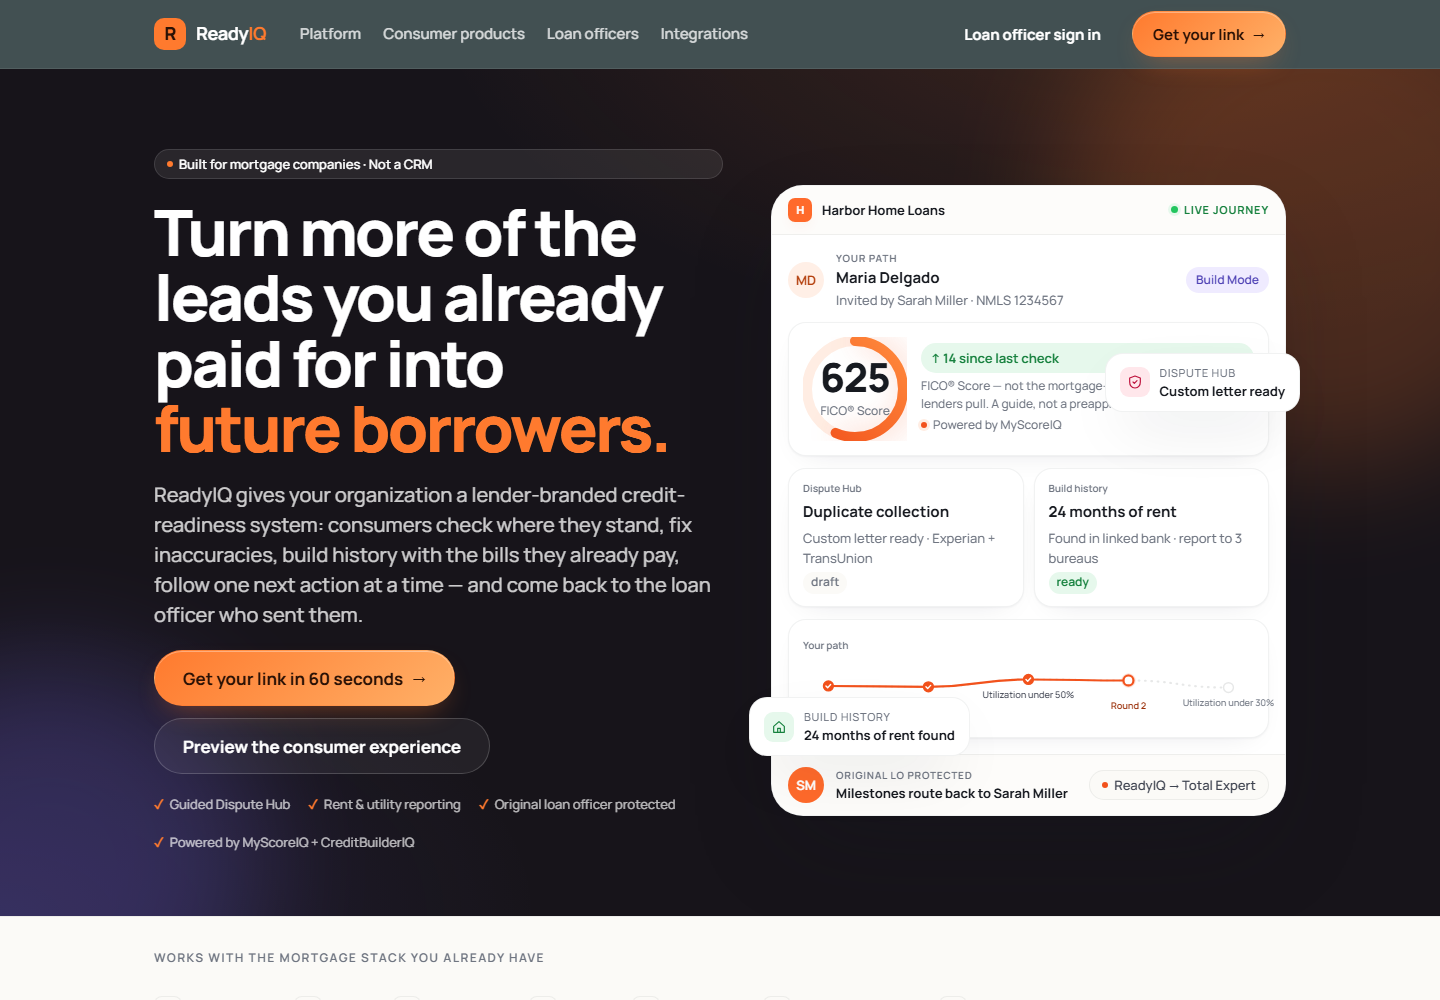
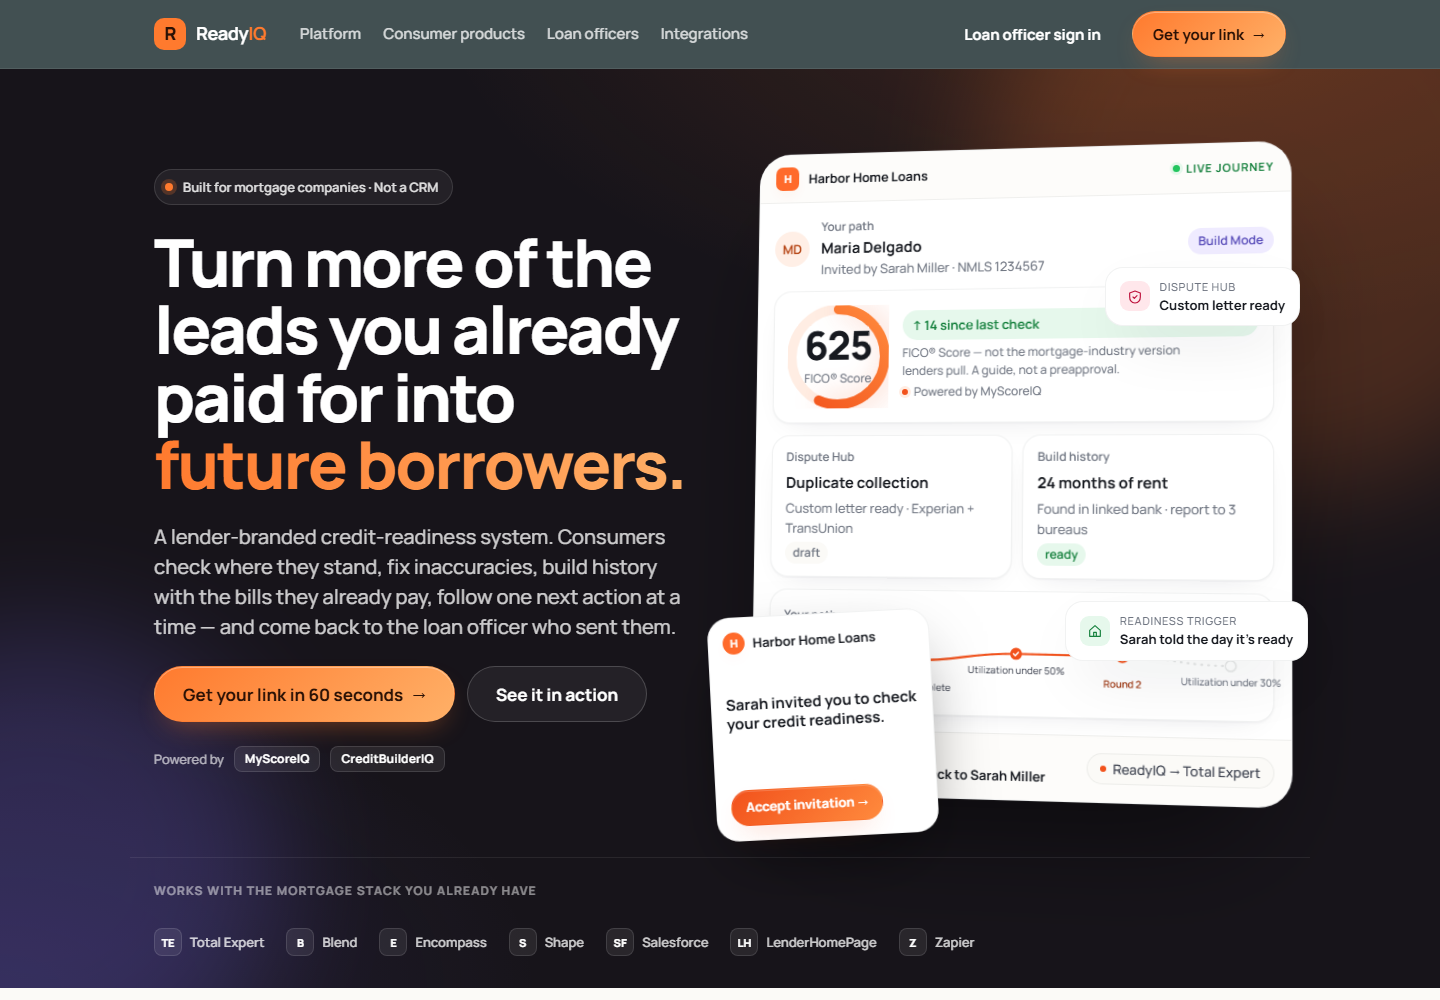
feat(hero): rebuilt marketing hero — side-by-side CTAs, tilted product window with depth, invitation card, floating labels, powered-by chips, integrations row inside the hero

Changed region(s): [[0.0938, 0.062, 0.9062, 0.868], [0.0, 0.837, 1.0, 0.992], [0.3438, 0.682, 0.4375, 0.713]]

diff --git a/site/index.html b/site/index.html
@@ -21,28 +21,34 @@
   .rmark { display: inline-flex; align-items: center; gap: 10px; font-weight: 700; letter-spacing: -.02em; font-size: 18px; color: inherit; text-decoration: none !important; }
   .rmark i { width: 32px; height: 32px; border-radius: 10px; background: var(--lime); color: var(--lime-ink); display: grid; place-items: center; font-style: normal; font-weight: 800; }
   .rmark span span { color: var(--lime); }
-  .hero { position: relative; overflow: hidden; padding: var(--sp-20) 0 var(--sp-16); }
-  .hero .orb-lime { width: 520px; height: 520px; right: -140px; top: -120px; opacity: .22; }
-  .hero .orb-purple { width: 420px; height: 420px; left: -160px; bottom: -160px; opacity: .22; }
-  .hero-grid { position: relative; display: grid; grid-template-columns: minmax(0, 1.05fr) minmax(0, .95fr); gap: var(--sp-12); align-items: center; }
-  .hero-copy { display: grid; gap: var(--sp-5); max-width: 600px; }
-  .hero-copy .display { color: #fff; }
-  .hero-copy .display em { color: var(--lime); }
-  .proof { display: flex; gap: 18px; flex-wrap: wrap; font-size: var(--fs-13); color: rgba(255,255,255,.7); }
-  .proof span::before { content: "✓"; color: var(--lime); font-weight: 700; margin-right: 6px; }
-  .stage { position: relative; }
-  .stage .platform { position: relative; z-index: 1; color: var(--ink); }
-  .float-a { right: -14px; top: 168px; } .float-b { left: -22px; bottom: 60px; animation-delay: 1.4s; }
+  .hero { position: relative; overflow: hidden; padding: var(--sp-20) 0 0; }
+  .hero .orb-lime { width: 620px; height: 620px; right: -160px; top: -200px; opacity: .22; }
+  .hero .orb-purple { width: 480px; height: 480px; left: -200px; bottom: -120px; opacity: .22; }
+  .hero-grid { position: relative; display: grid; grid-template-columns: minmax(0, 1fr) minmax(0, 1fr); gap: var(--sp-16); align-items: center; padding-bottom: var(--sp-16); }
+  .hero-copy { display: grid; gap: var(--sp-6); max-width: 620px; }
+  .hero-copy .display { color: #fff; font-size: 66px; }
+  .hero-copy .display em { background: var(--text-grad); -webkit-background-clip: text; background-clip: text; color: transparent; }
+  .hero-copy .lead { max-width: 56ch; }
+  .hero-pill { display: inline-flex; align-items: center; gap: 10px; height: 36px; padding: 0 14px 0 10px; border-radius: var(--r-pill); background: rgba(255,255,255,.06); border: 1px solid rgba(255,255,255,.12); color: rgba(255,255,255,.85); font-size: var(--fs-13); font-weight: 600; width: max-content; max-width: 100%; }
+  .hero-pill i { width: 8px; height: 8px; border-radius: 50%; background: var(--lime); box-shadow: 0 0 0 4px rgba(255,122,46,.22); }
+  .hero-cta { display: flex; gap: 12px; flex-wrap: wrap; align-items: center; }
+  .hero-powered { display: flex; align-items: center; gap: 10px; flex-wrap: wrap; font-size: var(--fs-13); color: rgba(255,255,255,.7); }
+  .hero-powered .pb { display: inline-flex; align-items: center; height: 26px; padding: 0 10px; border-radius: 8px; background: rgba(255,255,255,.08); border: 1px solid rgba(255,255,255,.12); color: #fff; font-weight: 700; font-size: 12px; letter-spacing: .01em; }
+  .hero-powered .sep { width: 1px; height: 16px; background: rgba(255,255,255,.18); margin: 0 4px; }
+  .stage { position: relative; perspective: 1600px; }
+  .stage .platform { position: relative; z-index: 1; color: var(--ink); transform: rotateY(-8deg) rotateX(3deg); transform-origin: 20% 50%; transition: transform var(--dur-4) var(--ease); box-shadow: 0 60px 120px -40px rgba(0,0,0,.6), 0 0 0 1px rgba(255,255,255,.06); }
+  .stage:hover .platform { transform: none; }
+  .phone-mini { position: absolute; z-index: 4; left: -40px; bottom: -44px; width: 222px; display: grid; gap: 8px; padding: 14px; border-radius: 22px; background: #fff; color: var(--ink); border: 1px solid var(--line-2); box-shadow: 0 30px 70px -20px rgba(0,0,0,.55); transform: rotate(-3deg); }
+  .float-a { right: -14px; top: 118px; } .float-b { right: -22px; bottom: 132px; animation-delay: 1.4s; }
   .platform-context { display: grid; grid-template-columns: auto 1fr auto; gap: 12px; align-items: center; }
-  .platform-context small { display: block; font-size: 10px; letter-spacing: .08em; text-transform: uppercase; color: var(--ink-3); font-weight: 640; }
+  .platform-context small { display: block; font-size: 12px; color: var(--ink-3); font-weight: 600; }
   .platform-return { display: grid; grid-template-columns: auto 1fr auto; gap: 12px; align-items: center; padding: 12px 16px; background: var(--paper-2); border-top: 1px solid var(--line-2); font-size: var(--fs-13); }
-  .platform-return small { display: block; font-size: 10px; letter-spacing: .08em; text-transform: uppercase; color: var(--ink-3); font-weight: 640; }
-  .trust { padding: var(--sp-8) 0; border-top: 1px solid var(--line-2); border-bottom: 1px solid var(--line-2); }
-  .trust-inner { display: flex; align-items: center; gap: 28px; flex-wrap: wrap; justify-content: space-between; }
-  .trust-inner > span { font-size: var(--fs-12); letter-spacing: .12em; text-transform: uppercase; color: var(--ink-3); font-weight: 640; }
-  .logos { display: flex; gap: 26px; flex-wrap: wrap; align-items: center; }
-  .logos b { display: inline-flex; align-items: center; gap: 8px; color: var(--ink-2); font-weight: 640; letter-spacing: .02em; font-size: var(--fs-13); }
-  .logos b i { width: 28px; height: 28px; border-radius: 8px; background: var(--paper); border: 1px solid var(--line-2); display: grid; place-items: center; font-style: normal; font-size: 11px; font-weight: 800; color: var(--ink); }
+  .platform-return small { display: block; font-size: 12px; color: var(--ink-3); font-weight: 600; }
+  .hero-trust { position: relative; display: flex; align-items: center; gap: 28px; flex-wrap: wrap; justify-content: space-between; padding: var(--sp-6) var(--sp-6) var(--sp-8); border-top: 1px solid rgba(255,255,255,.08); }
+  .hero-trust > span { font-size: var(--fs-12); letter-spacing: .1em; text-transform: uppercase; color: rgba(255,255,255,.5); font-weight: 700; }
+  .logos { display: flex; gap: 22px; flex-wrap: wrap; align-items: center; }
+  .logos b { display: inline-flex; align-items: center; gap: 8px; color: rgba(255,255,255,.78); font-weight: 600; font-size: var(--fs-13); }
+  .logos b i { width: 28px; height: 28px; border-radius: 8px; background: rgba(255,255,255,.08); border: 1px solid rgba(255,255,255,.12); display: grid; place-items: center; font-style: normal; font-size: 11px; font-weight: 800; color: #fff; }
   .problem { display: grid; grid-template-columns: minmax(0, 1.1fr) minmax(0, .9fr); gap: var(--sp-12); align-items: start; }
   .stat-row { display: grid; grid-template-columns: repeat(3, 1fr); gap: 12px; }
   .stat-row .card { padding: 18px; }
@@ -85,7 +91,10 @@
   .mk-footer { padding: var(--sp-10) 0 var(--sp-16); font-size: var(--fs-13); color: var(--ink-3); display: grid; gap: 14px; }
   @media (max-width: 960px) {
     .mk-links { display: none; }
-    .hero { padding: var(--sp-12) 0 var(--sp-10); }
+    .hero { padding: var(--sp-12) 0 0; }
+    .hero-copy .display { font-size: var(--fs-44); }
+    .stage .platform { transform: none; }
+    .phone-mini { display: none; }
     .hero-grid, .problem, .suite-head, .suite-panel, .org, .cx { grid-template-columns: minmax(0, 1fr); gap: var(--sp-6); }
     .loop, .modules { grid-template-columns: 1fr 1fr; }
     .stat-row { grid-template-columns: 1fr; }
@@ -93,7 +102,7 @@
     .events > div { grid-template-columns: 1fr 1fr; }
     .events > div span:nth-child(1), .events > div span:nth-child(4) { display: none; }
   }
-  @media (max-width: 600px) { .loop, .modules { grid-template-columns: 1fr; } .phone { width: 100%; max-width: 320px; } .hero-copy .row .btn { width: 100%; } .hero-copy .row { display: grid; } }
+  @media (max-width: 600px) { .loop, .modules { grid-template-columns: 1fr; } .phone { width: 100%; max-width: 320px; } .hero-cta { display: grid; } .hero-cta .btn { width: 100%; } }
 </style>
 </head>
 <body>
@@ -107,11 +116,14 @@
   <i class="orb orb-lime"></i><i class="orb orb-purple"></i>
   <div class="container hero-grid">
     <div class="hero-copy">
-      <div class="chip"><span class="dot"></span>Built for mortgage companies · Not a CRM</div>
+      <div class="hero-pill"><i></i>Built for mortgage companies · Not a CRM</div>
       <h1 class="display">Turn more of the leads you already paid for into <em>future borrowers.</em></h1>
-      <p class="lead">ReadyIQ gives your organization a lender-branded credit-readiness system: consumers check where they stand, fix inaccuracies, build history with the bills they already pay, follow one next action at a time — and come back to the loan officer who sent them.</p>
-      <div class="row wrap"><a class="btn btn-accent btn-lg" href="lo/start/">Get your link in 60 seconds <span class="arrow">→</span></a><a class="btn btn-outline btn-lg" href="check/">Preview the consumer experience</a></div>
-      <div class="proof"><span>Guided Dispute Hub</span><span>Rent & utility reporting</span><span>Original loan officer protected</span><span>Powered by MyScoreIQ + CreditBuilderIQ</span></div>
+      <p class="lead">A lender-branded credit-readiness system. Consumers check where they stand, fix inaccuracies, build history with the bills they already pay, follow one next action at a time — and come back to the loan officer who sent them.</p>
+      <div class="hero-cta">
+        <a class="btn btn-accent btn-lg" href="lo/start/">Get your link in 60 seconds <span class="arrow">→</span></a>
+        <a class="btn btn-outline btn-lg" href="check/?c=harbor-smiller">See it in action</a>
+      </div>
+      <div class="hero-powered"><span class="muted">Powered by</span><span class="pb">MyScoreIQ</span><span class="pb">CreditBuilderIQ</span></div>
     </div>
     <div class="stage">
       <div class="platform" aria-hidden="true">
@@ -120,20 +132,28 @@
           <div class="platform-context"><span class="avatar" style="background:#FFEFE6;color:#B4400E">MD</span><div><small>Your path</small><b>Maria Delgado</b><div class="small muted">Invited by Sarah Miller · NMLS 1234567</div></div><span class="badge badge-build">Build Mode</span></div>
           <div class="card card-pad" style="padding:14px;display:grid;grid-template-columns:auto 1fr;gap:14px;align-items:center"><div id="hero-ring"></div><div class="stack-1"><span class="number-delta up">↑ 14 since last check</span><p class="number-caption" style="font-size:12px">FICO® Score — not the mortgage-industry version lenders pull. A guide, not a preapproval.</p><span class="engine-tag">Powered by MyScoreIQ</span></div></div>
           <div class="grid-2" style="gap:10px">
-            <div class="card card-pad" style="padding:12px 14px;display:grid;gap:4px"><span class="eyebrow" style="font-size:10px">Dispute Hub</span><b>Duplicate collection</b><span class="small muted">Custom letter ready · Experian + TransUnion</span><span class="pill pill-draft" style="justify-self:start">draft</span></div>
-            <div class="card card-pad" style="padding:12px 14px;display:grid;gap:4px"><span class="eyebrow" style="font-size:10px">Build history</span><b>24 months of rent</b><span class="small muted">Found in linked bank · report to 3 bureaus</span><span class="pill pill-resolved" style="justify-self:start">ready</span></div>
+            <div class="card card-pad" style="padding:12px 14px;display:grid;gap:4px"><span class="eyebrow" style="font-size:12px">Dispute Hub</span><b>Duplicate collection</b><span class="small muted">Custom letter ready · Experian + TransUnion</span><span class="pill pill-draft" style="justify-self:start">draft</span></div>
+            <div class="card card-pad" style="padding:12px 14px;display:grid;gap:4px"><span class="eyebrow" style="font-size:12px">Build history</span><b>24 months of rent</b><span class="small muted">Found in linked bank · report to 3 bureaus</span><span class="pill pill-resolved" style="justify-self:start">ready</span></div>
           </div>
-          <div class="card card-pad" style="padding:12px 14px"><span class="eyebrow" style="font-size:10px">Your path</span><div id="hero-path"></div></div>
+          <div class="card card-pad" style="padding:12px 14px"><span class="eyebrow" style="font-size:12px">Your path</span><div id="hero-path"></div></div>
         </div>
         <div class="platform-return"><span class="avatar" style="background:#FF6A2B;color:#fff">SM</span><div><small>Original LO protected</small><b>Milestones route back to Sarah Miller</b></div><span class="chip"><span class="dot"></span>ReadyIQ → Total Expert</span></div>
       </div>
+      <div class="phone-mini" aria-hidden="true">
+        <div class="row" style="gap:8px"><span class="brand-mark" style="width:22px;height:22px;font-size:11px;background:#FF6A2B">H</span><b class="small">Harbor Home Loans</b></div>
+        <span class="chip chip-round" style="justify-self:start;height:26px;font-size:12px">Personal invitation · Sarah</span>
+        <b style="font-size:15px;line-height:1.25">Sarah invited you to check your credit readiness.</b>
+        <span class="small muted">3 minutes · no application · soft pull</span>
+        <span class="btn btn-primary btn-sm" style="justify-self:start">Accept invitation →</span>
+      </div>
       <div class="float-label float-a"><i class="tone-coral"><svg viewBox="0 0 24 24" width="16" height="16" fill="none" stroke="currentColor" stroke-width="1.75" stroke-linecap="round" stroke-linejoin="round"><path d="M12 3l8 3v6c0 5-3.5 8.5-8 9-4.5-.5-8-4-8-9V6l8-3zM9 12l2 2 4-4"/></svg></i><div><small>Dispute Hub</small><b>Custom letter ready</b></div></div>
-      <div class="float-label float-b"><i class="tone-mint"><svg viewBox="0 0 24 24" width="16" height="16" fill="none" stroke="currentColor" stroke-width="1.75" stroke-linecap="round" stroke-linejoin="round"><path d="M4 11l8-7 8 7v9H4z M10 20v-6h4v6"/></svg></i><div><small>Build history</small><b>24 months of rent found</b></div></div>
+      <div class="float-label float-b"><i class="tone-mint"><svg viewBox="0 0 24 24" width="16" height="16" fill="none" stroke="currentColor" stroke-width="1.75" stroke-linecap="round" stroke-linejoin="round"><path d="M4 11l8-7 8 7v9H4z M10 20v-6h4v6"/></svg></i><div><small>Readiness trigger</small><b>Sarah told the day it's ready</b></div></div>
     </div>
   </div>
+  <div class="container hero-trust"><span>Works with the mortgage stack you already have</span><div class="logos" id="logos"></div></div>
 </header>
 
-<section class="trust"><div class="container trust-inner"><span>Works with the mortgage stack you already have</span><div class="logos" id="logos"></div></div></section>
+
 
 <section class="section" id="platform"><div class="container problem">
   <div class="stack-4"><p class="kicker accent">The lost-lead problem</p><h2 class="h1">A “not yet” should not become <em>someone else’s borrower.</em></h2></div>
